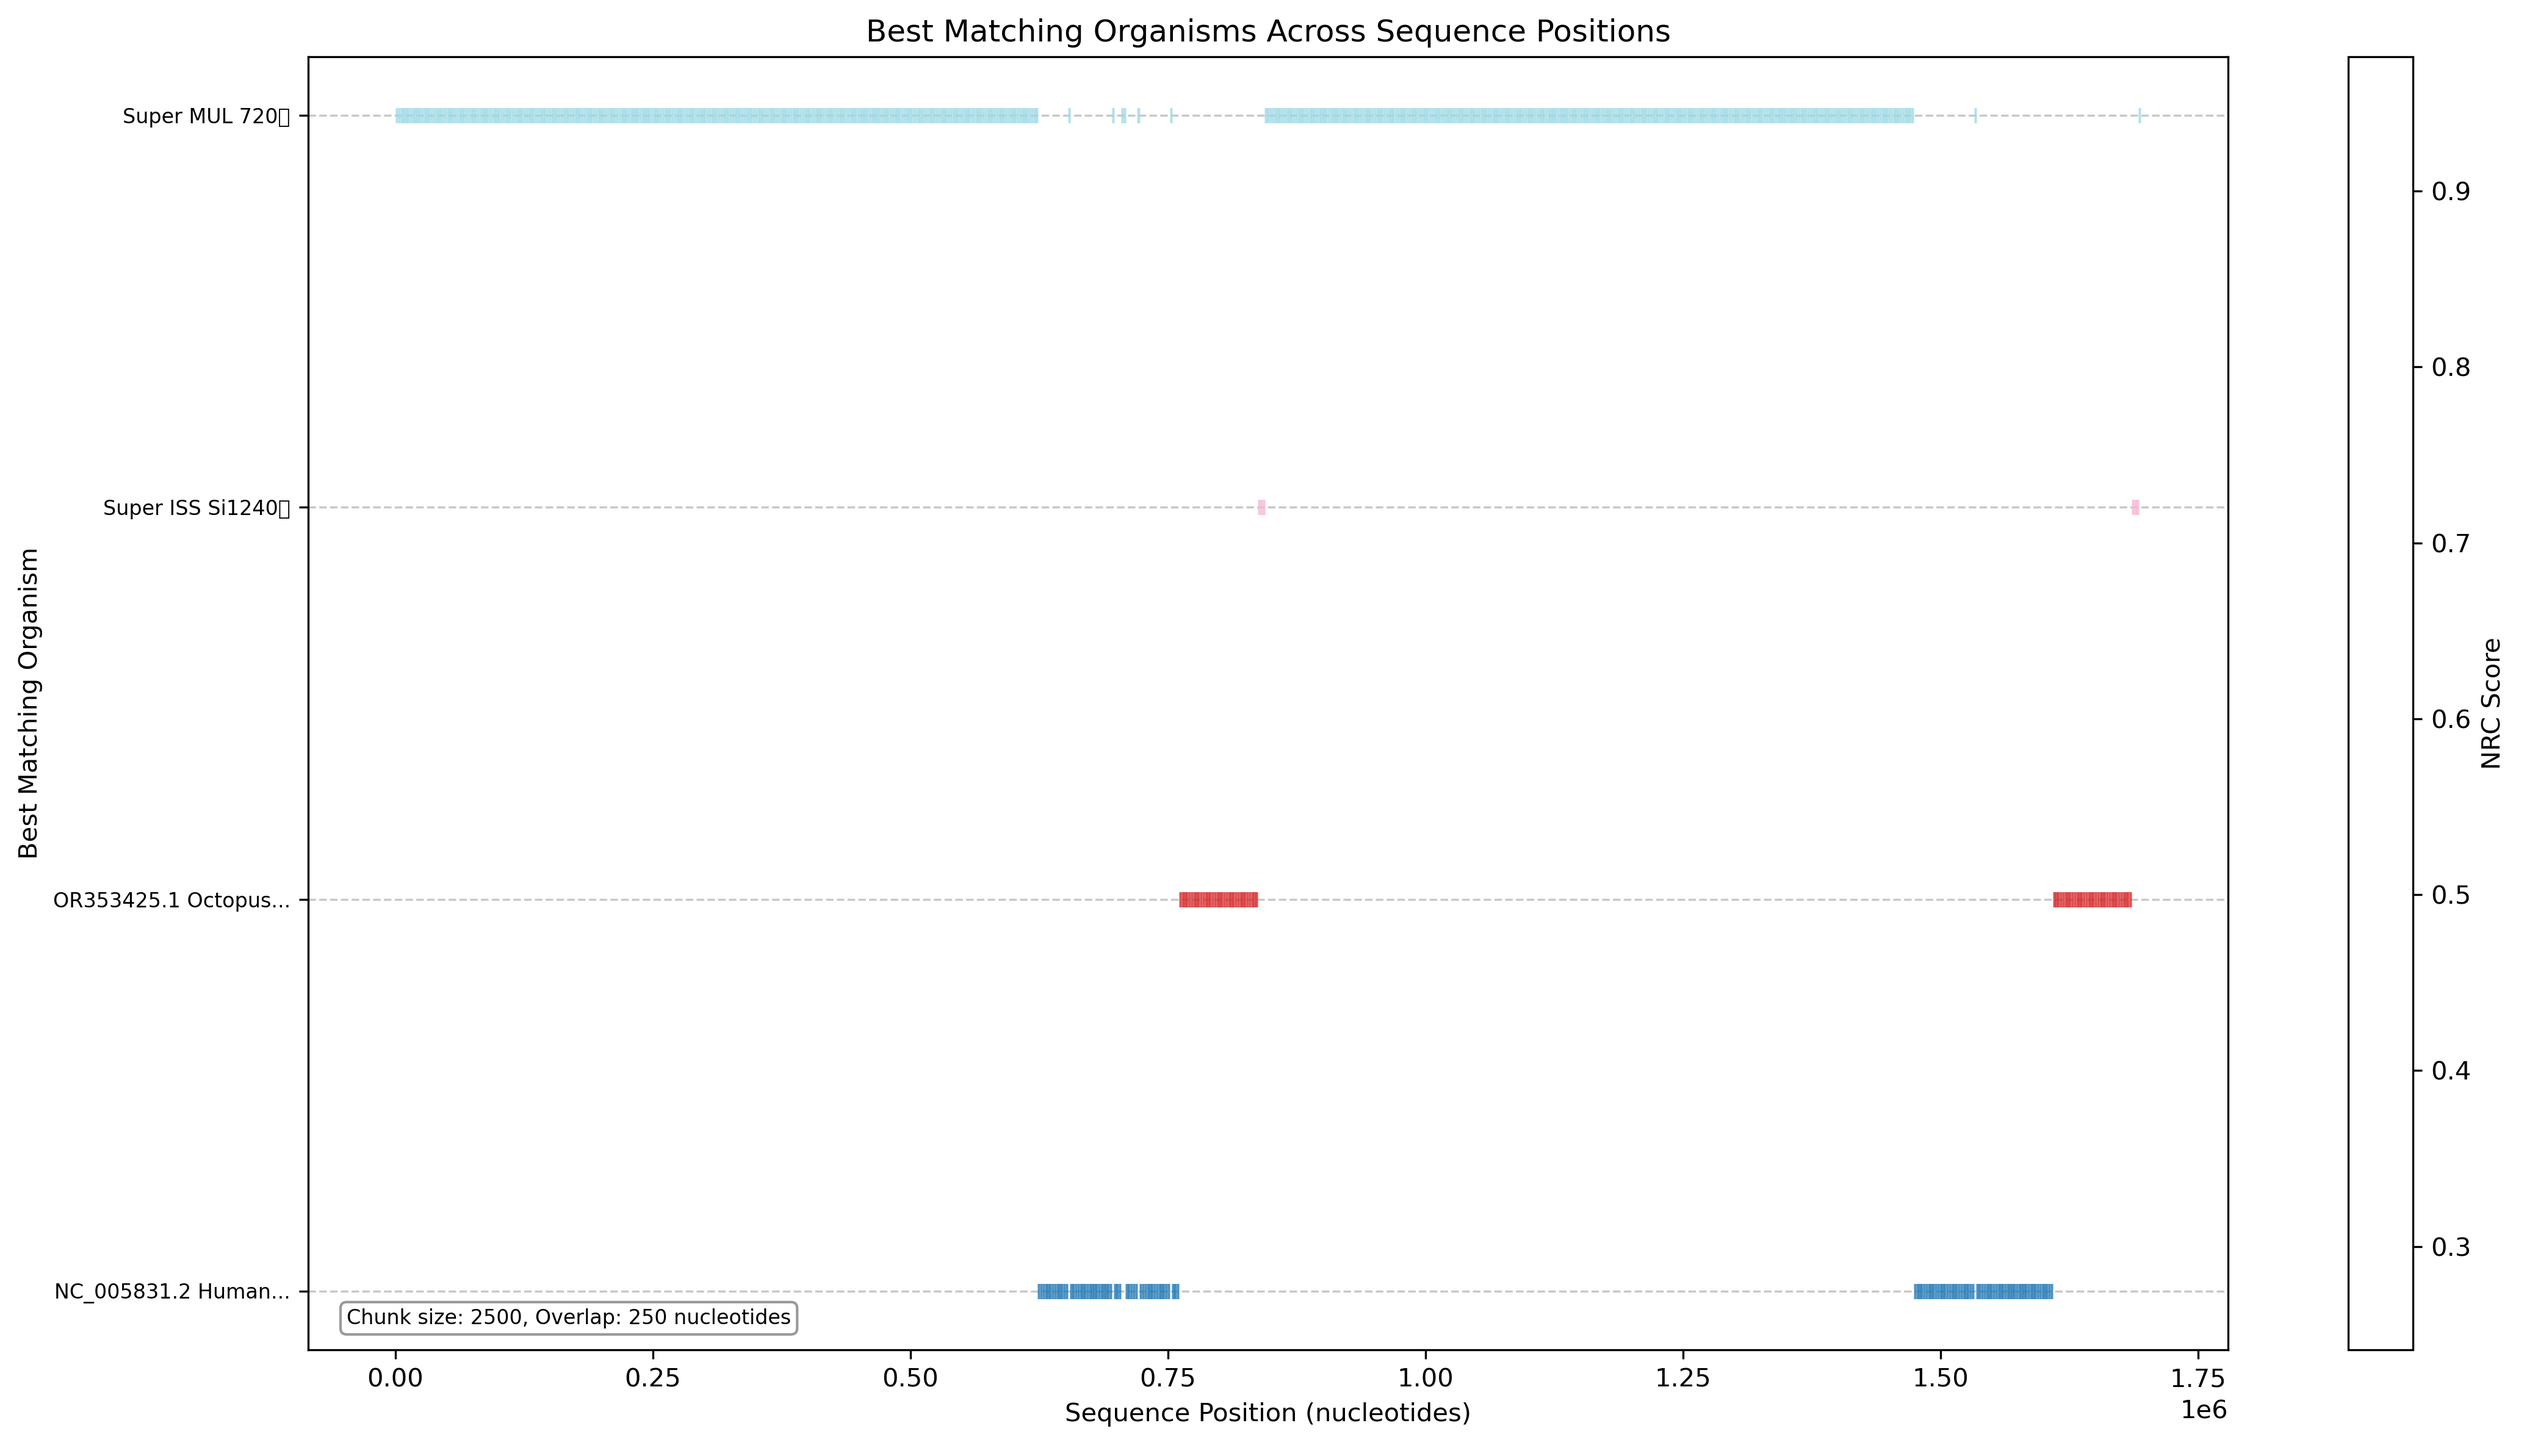
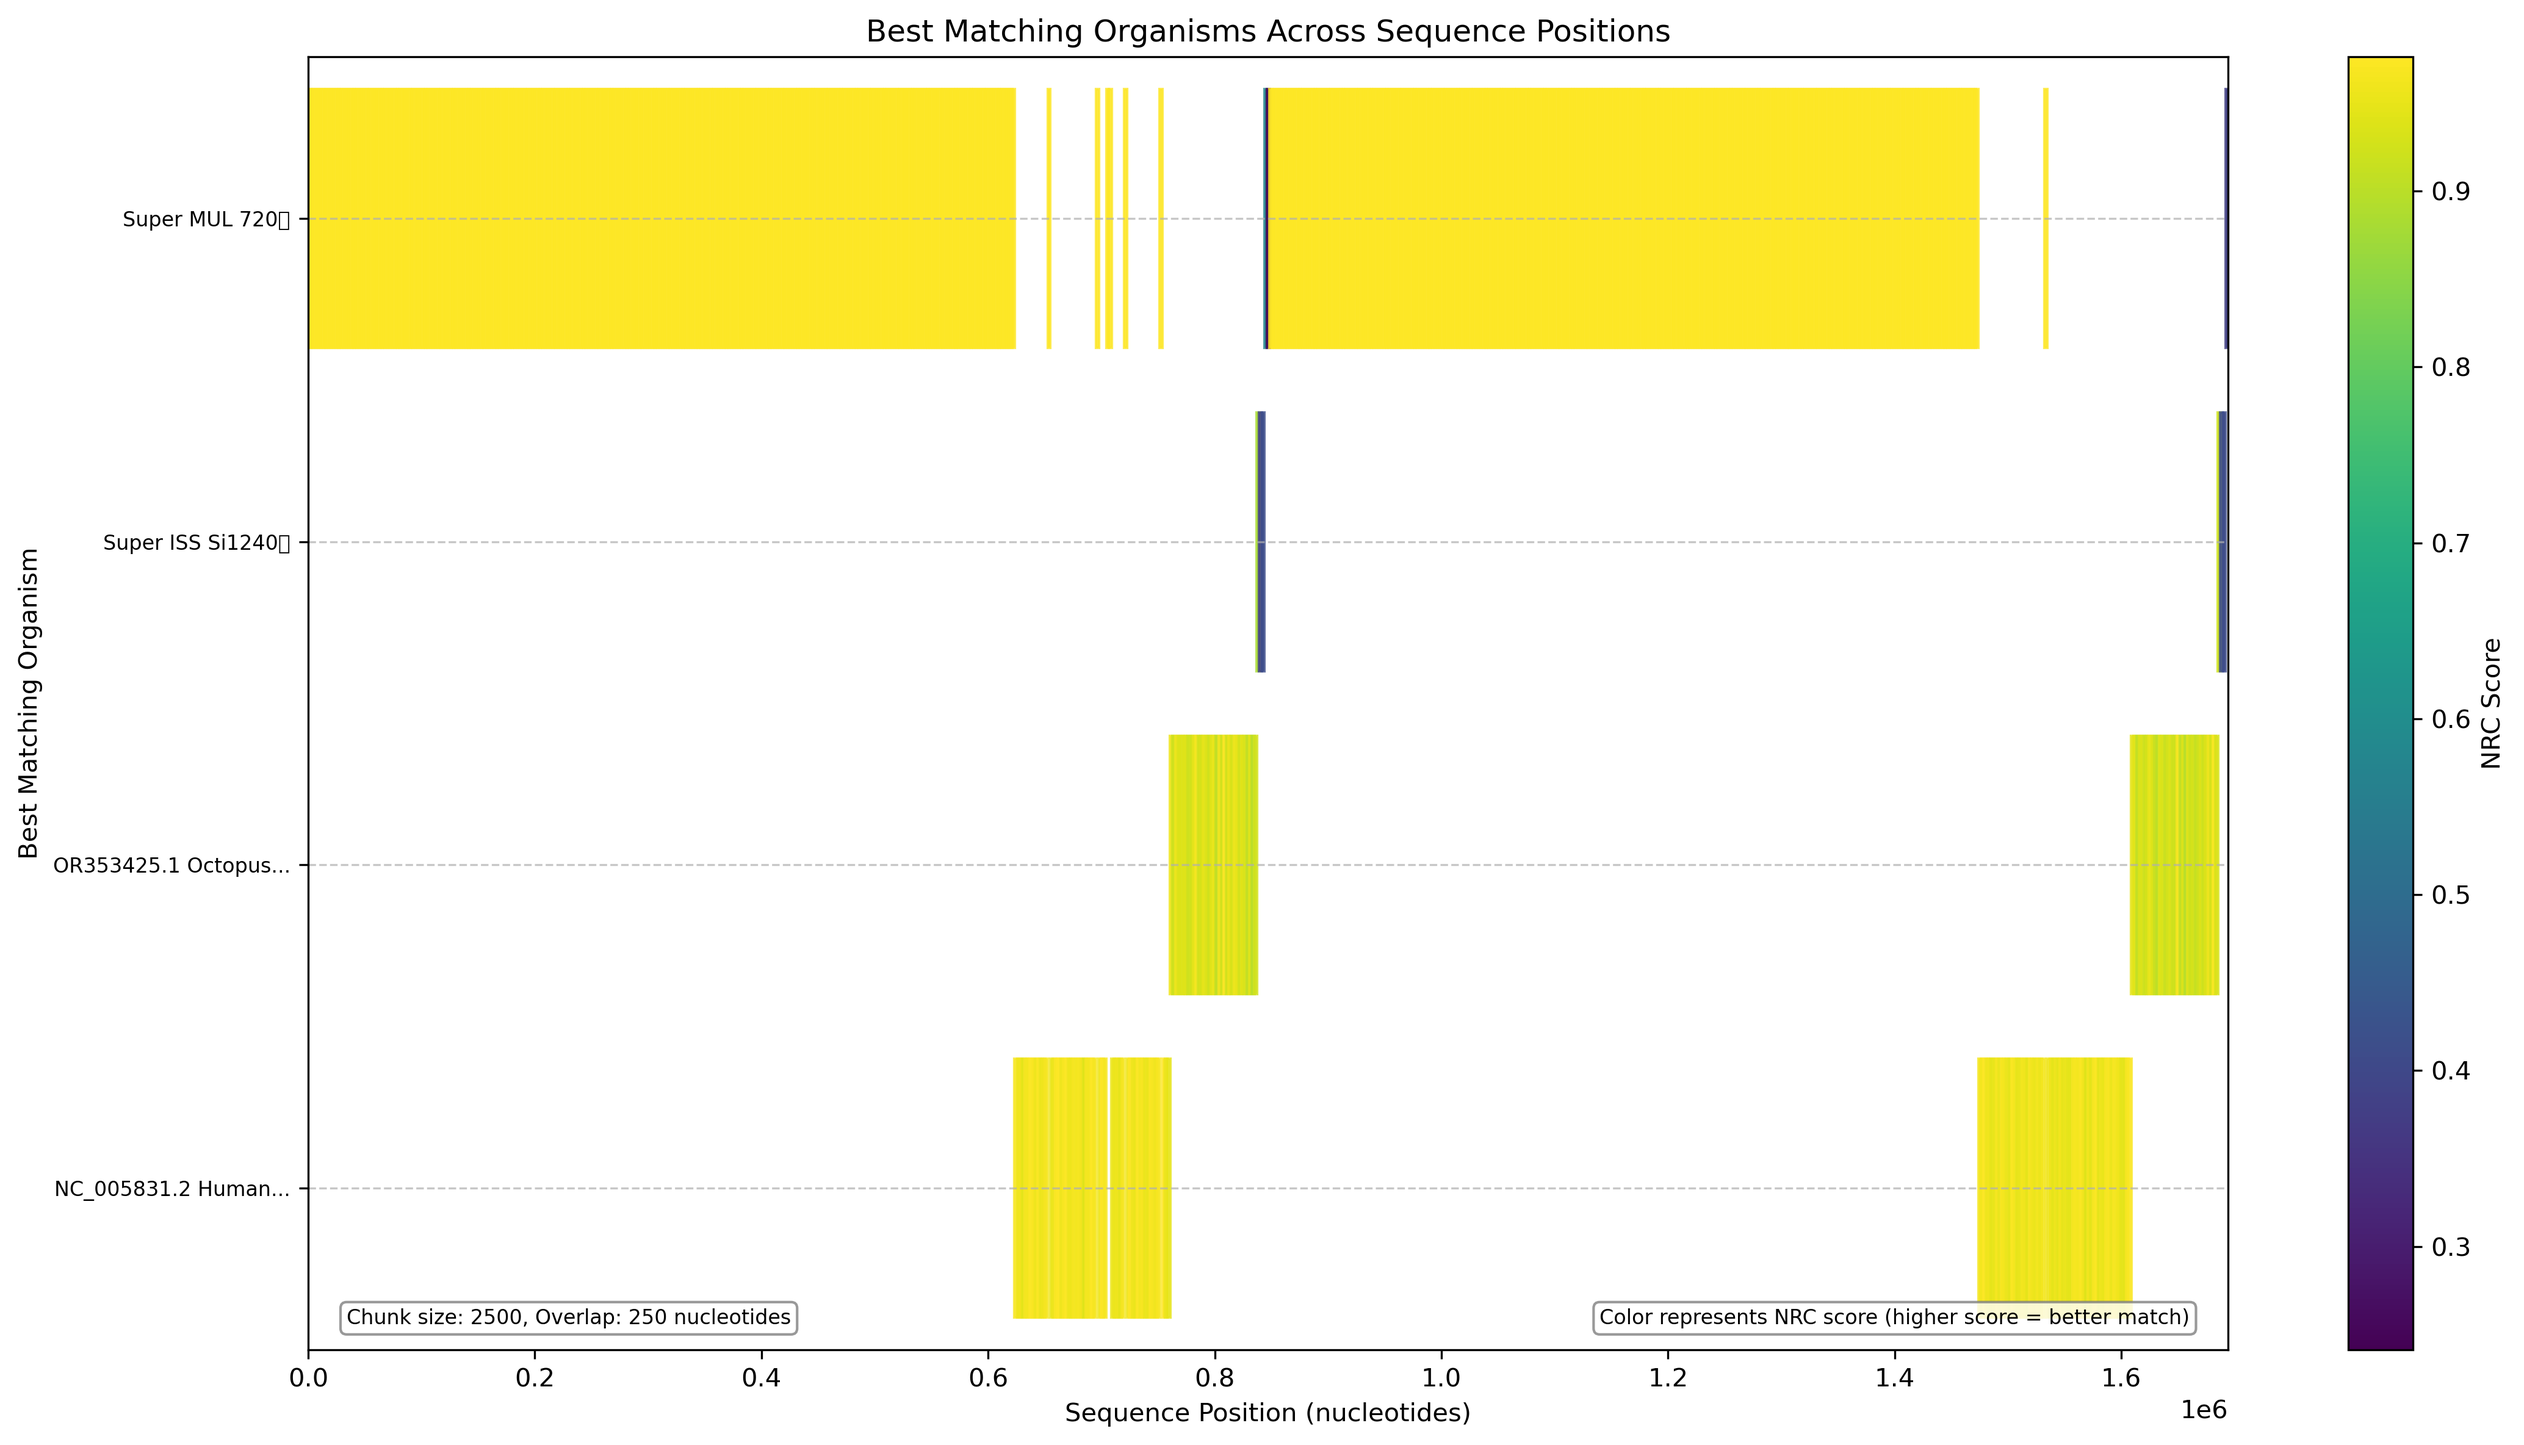
fix: nrc in chunk analysis visualization

diff --git a/visualize_results.py b/visualize_results.py
@@ -644,57 +644,78 @@ def plot_chunk_analysis(chunk_file, output_dir):
         org_indices.append(organism_mapping[chunk['best_match']])
         nrc_values.append(chunk['best_nrc'])
     
+    # Find min and max NRC for normalization
+    min_nrc = min(nrc_values)
+    max_nrc = max(nrc_values)
+    
     # Create plot
     plt.figure(figsize=(15, 8))
     
-    # Create colormap with distinct colors
-    cmap = plt.cm.get_cmap('tab20', len(organisms))
+    # Use only one colormap for NRC intensity
+    nrc_cmap = plt.cm.get_cmap('viridis')
     
-    # Plot each chunk as a horizontal line
+    # Plot each chunk as a patch with color representing NRC intensity
+    from matplotlib.patches import Rectangle
+    
+    # Create a scatter for NRC colorbar
+    scatter = plt.scatter([], [], c=[], cmap=nrc_cmap, vmin=min_nrc, vmax=max_nrc)
+    
+    # Plot each chunk with NRC value represented by color
     for i in range(len(positions)):
-        plt.hlines(
-            y=org_indices[i], 
-            xmin=positions[i], 
-            xmax=end_positions[i],
-            linewidth=6, 
-            color=cmap(org_indices[i]),
-            alpha=0.8
+        # Normalize NRC value to 0-1 range for color mapping
+        norm_nrc = (nrc_values[i] - min_nrc) / (max_nrc - min_nrc) if max_nrc > min_nrc else 0.5
+        
+        # Create a patch for this chunk
+        chunk_width = end_positions[i] - positions[i]
+        rect = Rectangle(
+            (positions[i], org_indices[i] - 0.4),
+            chunk_width,
+            0.8,
+            color=nrc_cmap(norm_nrc),
+            alpha=0.8  # Fixed alpha since color already represents NRC
         )
+        
+        plt.gca().add_patch(rect)
+        
+        # Add NRC value text if chunk is wide enough
+        if chunk_width > (max(positions) - min(positions)) * 0.05:  # Only add text if chunk is wide enough
+            plt.text(
+                positions[i] + chunk_width/2,
+                org_indices[i],
+                f"{nrc_values[i]:.3f}",
+                ha='center',
+                va='center',
+                fontsize=8,
+                color='black',
+                bbox=dict(boxstyle="round,pad=0.1", fc="white", ec="gray", alpha=0.7)
+            )
     
-    # Add color bar to show NRC values
-    scatter = plt.scatter(
-        positions, 
-        org_indices, 
-        c=nrc_values, 
-        cmap='viridis', 
-        s=1,  # Small point size
-        alpha=0  # Invisible points, just for the colorbar
-    )
+    # Add a colorbar for NRC values
     cbar = plt.colorbar(scatter)
     cbar.set_label('NRC Score')
     
+    # Compress long organism names
+    compressed_labels = []
+    for org in organisms:
+        if len(org) > 50:
+            parts = org.split(' ')
+            if len(parts) > 2:
+                compressed_labels.append(f"{parts[0]} {parts[1]}...")
+            else:
+                compressed_labels.append(org[:47] + "...")
+        else:
+            compressed_labels.append(org)
+    
     # Format plot
-    plt.yticks(range(len(organisms)), organisms, fontsize=8)
+    plt.yticks(range(len(organisms)), compressed_labels, fontsize=8)
     plt.xlabel('Sequence Position (nucleotides)')
     plt.ylabel('Best Matching Organism')
     plt.title('Best Matching Organisms Across Sequence Positions')
     plt.grid(True, axis='y', linestyle='--', alpha=0.7)
     
-    # Compress long organism names
-    fig = plt.gcf()
-    fig.canvas.draw()
-    ylabels = [item.get_text() for item in plt.gca().get_yticklabels()]
-    compressed_labels = []
-    for label in ylabels:
-        if len(label) > 50:
-            parts = label.split(' ')
-            if len(parts) > 2:
-                compressed_labels.append(f"{parts[0]} {parts[1]}...")
-            else:
-                compressed_labels.append(label[:47] + "...")
-        else:
-            compressed_labels.append(label)
-    plt.yticks(range(len(organisms)), compressed_labels, fontsize=8)
+    # Set appropriate axis limits
+    plt.xlim(min(positions), max(end_positions))
+    plt.ylim(-0.5, len(organisms) - 0.5)
     
     # Add chunk size and overlap information in the corner
     plt.annotate(
@@ -703,6 +724,16 @@ def plot_chunk_analysis(chunk_file, output_dir):
         xy=(0.02, 0.02), 
         xycoords='axes fraction', 
         fontsize=8, 
+        bbox=dict(boxstyle="round,pad=0.3", fc="white", ec="gray", alpha=0.8)
+    )
+    
+    # Update explanation of visualization
+    plt.annotate(
+        f"Color represents NRC score (higher score = better match)", 
+        xy=(0.98, 0.02), 
+        xycoords='axes fraction', 
+        fontsize=8,
+        ha='right',
         bbox=dict(boxstyle="round,pad=0.3", fc="white", ec="gray", alpha=0.8)
     )
     
@@ -715,23 +746,51 @@ def plot_chunk_analysis(chunk_file, output_dir):
     
     # Create a higher-resolution version for detailed viewing
     plt.figure(figsize=(20, 10))
+    
+    # Plot each chunk in high-res version
     for i in range(len(positions)):
-        plt.hlines(
-            y=org_indices[i], 
-            xmin=positions[i], 
-            xmax=end_positions[i],
-            linewidth=8, 
-            color=cmap(org_indices[i]),
-            alpha=0.8
+        # Normalize NRC value to 0-1 range for color mapping
+        norm_nrc = (nrc_values[i] - min_nrc) / (max_nrc - min_nrc) if max_nrc > min_nrc else 0.5
+        
+        # Create a patch for this chunk
+        chunk_width = end_positions[i] - positions[i]
+        rect = Rectangle(
+            (positions[i], org_indices[i] - 0.4),
+            chunk_width,
+            0.8,
+            color=nrc_cmap(norm_nrc),
+            alpha=0.8  # Fixed alpha since color already represents NRC
         )
-    scatter = plt.scatter(positions, org_indices, c=nrc_values, cmap='viridis', s=1, alpha=0)
+        
+        plt.gca().add_patch(rect)
+        
+        # Add NRC value text
+        plt.text(
+            positions[i] + chunk_width/2,
+            org_indices[i],
+            f"{nrc_values[i]:.3f}",
+            ha='center',
+            va='center',
+            fontsize=8,
+            color='black',
+            bbox=dict(boxstyle="round,pad=0.1", fc="white", ec="gray", alpha=0.7)
+        )
+    
+    # Add colorbar for high-res version
+    scatter = plt.scatter([], [], c=[], cmap=nrc_cmap, vmin=min_nrc, vmax=max_nrc)
     cbar = plt.colorbar(scatter)
     cbar.set_label('NRC Score')
+    
+    # Format high-res plot
     plt.yticks(range(len(organisms)), compressed_labels, fontsize=8)
     plt.xlabel('Sequence Position (nucleotides)')
     plt.ylabel('Best Matching Organism')
     plt.title('Best Matching Organisms Across Sequence Positions (High Resolution)')
     plt.grid(True, axis='y', linestyle='--', alpha=0.7)
+    plt.xlim(min(positions), max(end_positions))
+    plt.ylim(-0.5, len(organisms) - 0.5)
+    
+    # Add annotations to high-res version
     plt.annotate(
         f"Chunk size: {chunk_data.get('chunk_size', 'N/A')}, "
         f"Overlap: {chunk_data.get('overlap', 'N/A')} nucleotides", 
@@ -740,6 +799,15 @@ def plot_chunk_analysis(chunk_file, output_dir):
         fontsize=8, 
         bbox=dict(boxstyle="round,pad=0.3", fc="white", ec="gray", alpha=0.8)
     )
+    plt.annotate(
+        f"Color represents NRC score (higher score = better match)", 
+        xy=(0.98, 0.02), 
+        xycoords='axes fraction', 
+        fontsize=8,
+        ha='right',
+        bbox=dict(boxstyle="round,pad=0.3", fc="white", ec="gray", alpha=0.8)
+    )
+    
     plt.tight_layout()
     output_file_hires = os.path.join(output_dir, 'chunk_analysis_visualization_hires.png')
     plt.savefig(output_file_hires, dpi=600, bbox_inches='tight')
